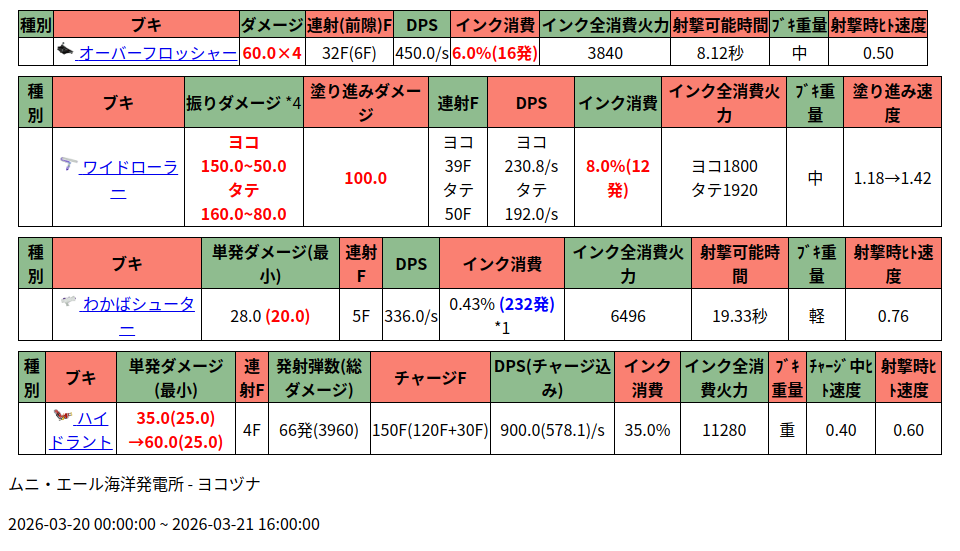
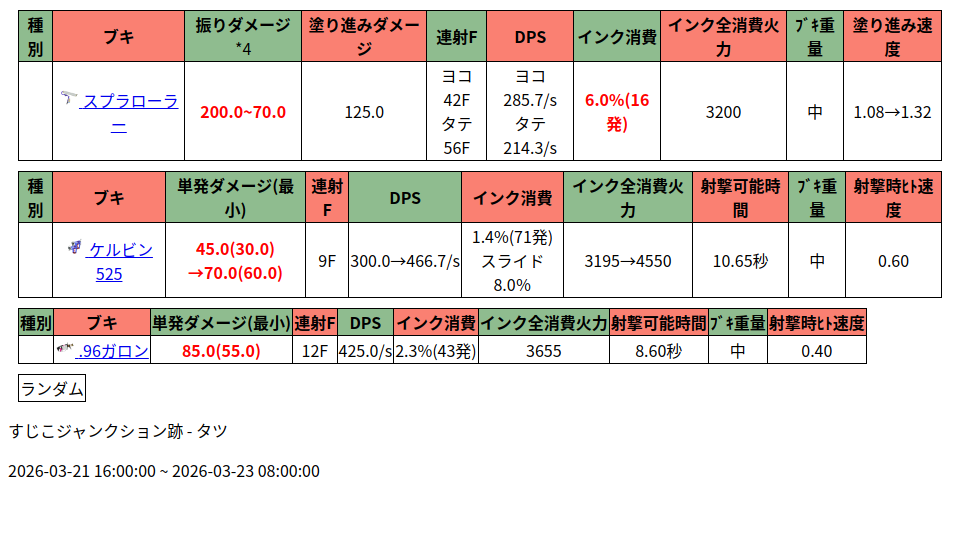
Automated changes by GitHub Actions

diff --git a/salmonRun.html b/salmonRun.html
@@ -1,1 +1,1 @@
-<head><meta charset="UTF-8"><style>table{border-collapse: collapse;border: 1px solid black;margin:10px;}td, th {border: 1px solid black;}</style></head><table><thead> <tr>  <td style="background-color:DarkSeaGreen; text-align:center;">   <strong>    種別   </strong>  </td>  <td style="background-color:Salmon; text-align:center;">   <strong>    ブキ   </strong>  </td>  <td style="background-color:DarkSeaGreen; text-align:center;">   <strong>    ダメージ   </strong>  </td>  <td style="background-color:Salmon; text-align:center;">   <strong>    連射(前隙)F   </strong>  </td>  <td style="background-color:DarkSeaGreen; text-align:center;">   <strong>    DPS   </strong>  </td>  <td style="background-color:Salmon; text-align:center;">   <strong>    インク消費   </strong>  </td>  <td style="background-color:DarkSeaGreen; text-align:center;">   <strong>    インク全消費火力   </strong>  </td>  <td style="background-color:Salmon; text-align:center;">   <strong>    射撃可能時間   </strong>  </td>  <td style="background-color:DarkSeaGreen; text-align:center;">   <strong>    ﾌﾞｷ重量   </strong>  </td>  <td style="background-color:Salmon; text-align:center;">   <strong>    射撃時ﾋﾄ速度   </strong>  </td> </tr></thead><tr><td></td> <td style="text-align:center;">  <a data-lightbox="imageset" href="https://cdn.wikiwiki.jp/to/w/splatoon3mix/icon/::attach/%E3%82%AA%E3%83%BC%E3%83%90%E3%83%BC%E3%83%95%E3%83%AD%E3%83%83%E3%82%B7%E3%83%A3%E3%83%BC.png?rev=afe5a9cc21242502cfc0347951e61fe4&amp;t=20220906103738" title="オーバーフロッシャー">   <img alt="オーバーフロッシャー" height="20" loading="lazy" src="https://cdn.wikiwiki.jp/to/w/splatoon3mix/icon/::ref/%E3%82%AA%E3%83%BC%E3%83%90%E3%83%BC%E3%83%95%E3%83%AD%E3%83%83%E3%82%B7%E3%83%A3%E3%83%BC.png?rev=afe5a9cc21242502cfc0347951e61fe4&amp;t=20220906103738" title="オーバーフロッシャー" width="20"/>  </a>  <a class="rel-wiki-page" href="/splatoon3mix/%E3%83%96%E3%82%AD/%E3%82%AA%E3%83%BC%E3%83%90%E3%83%BC%E3%83%95%E3%83%AD%E3%83%83%E3%82%B7%E3%83%A3%E3%83%BC" title="ブキ/オーバーフロッシャー">   オーバーフロッシャー  </a> </td> <td style="text-align:center;">  <span class="wikicolor" style="color:Red">   <strong>    60.0×4   </strong>  </span> </td> <td style="text-align:center;">  32F(6F) </td> <td style="text-align:center;">  450.0/s </td> <td style="text-align:center;">  <span class="wikicolor" style="color:Red">   <strong>    6.0%(16発)   </strong>  </span> </td> <td style="text-align:center;">  3840 </td> <td style="text-align:center;">  8.12秒 </td> <td style="text-align:center;">  中 </td> <td style="text-align:center;">  0.50 </td></tr></table><table><thead> <tr>  <td style="background-color:DarkSeaGreen; text-align:center;">   <strong>    種別   </strong>  </td>  <td style="background-color:Salmon; text-align:center;">   <strong>    ブキ   </strong>  </td>  <td style="background-color:DarkSeaGreen; text-align:center;">   <strong>    振りダメージ   </strong>   <a class="note_super tooltip" data-tooltip-content='&lt;p&gt;距離によってダメージが変動し、時間経過によって最大0.5倍の減衰がかかる。&lt;/p&gt;&lt;div style="text-align: right;"&gt;&lt;a href="#notefoot_4"&gt;脚注 *4 へ&lt;/a&gt;&lt;/div&gt;' id="notetext_4">    *4   </a>  </td>  <td style="background-color:Salmon; text-align:center;">   <strong>    塗り進みダメージ   </strong>  </td>  <td style="background-color:DarkSeaGreen; text-align:center;">   <strong>    連射F   </strong>  </td>  <td style="background-color:Salmon; text-align:center;">   <strong>    DPS   </strong>  </td>  <td style="background-color:DarkSeaGreen; text-align:center;">   <strong>    インク消費   </strong>  </td>  <td style="background-color:Salmon; text-align:center;">   <strong>    インク全消費火力   </strong>  </td>  <td style="background-color:DarkSeaGreen; text-align:center;">   <strong>    ﾌﾞｷ重量   </strong>  </td>  <td style="background-color:Salmon; text-align:center;">   <strong>    塗り進み速度   </strong>  </td> </tr></thead><tr><td></td> <td style="text-align:center;">  <a data-lightbox="imageset" href="https://cdn.wikiwiki.jp/to/w/splatoon3mix/icon/::attach/%E3%83%AF%E3%82%A4%E3%83%89%E3%83%AD%E3%83%BC%E3%83%A9%E3%83%BC.png?rev=92ad01bb0d912e69be0ebe69586fb8bf&amp;t=20221201093807" title="ワイドローラー">   <img alt="ワイドローラー" height="20" loading="lazy" src="https://cdn.wikiwiki.jp/to/w/splatoon3mix/icon/::ref/%E3%83%AF%E3%82%A4%E3%83%89%E3%83%AD%E3%83%BC%E3%83%A9%E3%83%BC.png?rev=92ad01bb0d912e69be0ebe69586fb8bf&amp;t=20221201093807" title="ワイドローラー" width="20"/>  </a>  <a class="rel-wiki-page" href="/splatoon3mix/%E3%83%96%E3%82%AD/%E3%83%AF%E3%82%A4%E3%83%89%E3%83%AD%E3%83%BC%E3%83%A9%E3%83%BC" title="ブキ/ワイドローラー">   ワイドローラー  </a> </td> <td style="text-align:center;">  <span class="wikicolor" style="color:Red">   <strong>    ヨコ150.0~50.0    <br class="spacer"/>    タテ160.0~80.0   </strong>  </span> </td> <td style="text-align:center;">  <span class="wikicolor" style="color:Red">   <strong>    100.0   </strong>  </span> </td> <td style="text-align:center;">  ヨコ39F  <br class="spacer"/>  タテ50F </td> <td style="text-align:center;">  ヨコ230.8/s  <br class="spacer"/>  タテ192.0/s </td> <td style="text-align:center;">  <span class="wikicolor" style="color:Red">   <strong>    8.0%(12発)   </strong>  </span> </td> <td style="text-align:center;">  ヨコ1800  <br class="spacer"/>  タテ1920 </td> <td style="text-align:center;">  中 </td> <td style="text-align:center;">  1.18→1.42 </td></tr></table><table><thead> <tr>  <td style="background-color:DarkSeaGreen; text-align:center;">   <strong>    種別   </strong>  </td>  <td style="background-color:Salmon; text-align:center;">   <strong>    ブキ   </strong>  </td>  <td style="background-color:DarkSeaGreen; text-align:center;">   <strong>    単発ダメージ(最小)   </strong>  </td>  <td style="background-color:Salmon; text-align:center;">   <strong>    連射F   </strong>  </td>  <td style="background-color:DarkSeaGreen; text-align:center;">   <strong>    DPS   </strong>  </td>  <td style="background-color:Salmon; text-align:center;">   <strong>    インク消費   </strong>  </td>  <td style="background-color:DarkSeaGreen; text-align:center;">   <strong>    インク全消費火力   </strong>  </td>  <td style="background-color:Salmon; text-align:center;">   <strong>    射撃可能時間   </strong>  </td>  <td style="background-color:DarkSeaGreen; text-align:center;">   <strong>    ﾌﾞｷ重量   </strong>  </td>  <td style="background-color:Salmon; text-align:center;">   <strong>    射撃時ﾋﾄ速度   </strong>  </td> </tr></thead><tr><td></td> <td style="text-align:center;">  <a data-lightbox="imageset" href="https://cdn.wikiwiki.jp/to/w/splatoon3mix/icon/::attach/%E3%82%8F%E3%81%8B%E3%81%B0%E3%82%B7%E3%83%A5%E3%83%BC%E3%82%BF%E3%83%BC.png?rev=71c835cfbea476bbea062d8b083a62c6&amp;t=20220905214729" title="わかばシューター">   <img alt="わかばシューター" height="20" loading="lazy" src="https://cdn.wikiwiki.jp/to/w/splatoon3mix/icon/::ref/%E3%82%8F%E3%81%8B%E3%81%B0%E3%82%B7%E3%83%A5%E3%83%BC%E3%82%BF%E3%83%BC.png?rev=71c835cfbea476bbea062d8b083a62c6&amp;t=20220905214729" title="わかばシューター" width="20"/>  </a>  <a class="rel-wiki-page" href="/splatoon3mix/%E3%83%96%E3%82%AD/%E3%82%8F%E3%81%8B%E3%81%B0%E3%82%B7%E3%83%A5%E3%83%BC%E3%82%BF%E3%83%BC" title="ブキ/わかばシューター">   わかばシューター  </a> </td> <td style="text-align:center;">  28.0  <span class="wikicolor" style="color:Red">   <strong>    (20.0)   </strong>  </span> </td> <td style="text-align:center;">  5F </td> <td style="text-align:center;">  336.0/s </td> <td style="text-align:center;">  0.43%  <span class="wikicolor" style="color:Blue">   <strong>    (232発)   </strong>  </span>  <a class="note_super tooltip" data-tooltip-content='&lt;p&gt;&lt;a href="/splatoon3mix/%E3%82%B5%E3%83%BC%E3%83%A2%E3%83%B3%E3%83%A9%E3%83%B3" title="サーモンラン" class="rel-wiki-page"&gt;サーモンラン&lt;/a&gt;においてはインクタンク10%増量の効果が適用されないため、実質的に下方修正されている&lt;/p&gt;&lt;div style="text-align: right;"&gt;&lt;a href="#notefoot_1"&gt;脚注 *1 へ&lt;/a&gt;&lt;/div&gt;' id="notetext_1">   *1  </a> </td> <td style="text-align:center;">  6496 </td> <td style="text-align:center;">  19.33秒 </td> <td style="text-align:center;">  軽 </td> <td style="text-align:center;">  0.76 </td></tr></table><table><thead> <tr>  <td style="background-color:DarkSeaGreen; text-align:center;">   <strong>    種別   </strong>  </td>  <td style="background-color:Salmon; text-align:center;">   <strong>    ブキ   </strong>  </td>  <td style="background-color:DarkSeaGreen; text-align:center;">   <strong>    単発ダメージ(最小)   </strong>  </td>  <td style="background-color:Salmon; text-align:center;">   <strong>    連射F   </strong>  </td>  <td style="background-color:DarkSeaGreen; text-align:center;">   <strong>    発射弾数(総ダメージ)   </strong>  </td>  <td style="background-color:Salmon; text-align:center;">   <strong>    チャージF   </strong>  </td>  <td style="background-color:DarkSeaGreen; text-align:center;">   <strong>    DPS(チャージ込み)   </strong>  </td>  <td style="background-color:Salmon; text-align:center;">   <strong>    インク消費   </strong>  </td>  <td style="background-color:DarkSeaGreen; text-align:center;">   <strong>    インク全消費火力   </strong>  </td>  <td style="background-color:Salmon; text-align:center;">   <strong>    ﾌﾞｷ重量   </strong>  </td>  <td style="background-color:DarkSeaGreen; text-align:center;">   <strong>    ﾁｬｰｼﾞ中ﾋﾄ速度   </strong>  </td>  <td style="background-color:Salmon; text-align:center;">   <strong>    射撃時ﾋﾄ速度   </strong>  </td> </tr></thead><tr><td></td> <td style="text-align:center;">  <a data-lightbox="imageset" href="https://cdn.wikiwiki.jp/to/w/splatoon3mix/icon/::attach/%E3%83%8F%E3%82%A4%E3%83%89%E3%83%A9%E3%83%B3%E3%83%88.png?rev=ab6a736dc2e4c56fcda0cb2ec6bd1d5e&amp;t=20220906103846" title="ハイドラント">   <img alt="ハイドラント" height="20" loading="lazy" src="https://cdn.wikiwiki.jp/to/w/splatoon3mix/icon/::ref/%E3%83%8F%E3%82%A4%E3%83%89%E3%83%A9%E3%83%B3%E3%83%88.png?rev=ab6a736dc2e4c56fcda0cb2ec6bd1d5e&amp;t=20220906103846" title="ハイドラント" width="20"/>  </a>  <a class="rel-wiki-page" href="/splatoon3mix/%E3%83%96%E3%82%AD/%E3%83%8F%E3%82%A4%E3%83%89%E3%83%A9%E3%83%B3%E3%83%88" title="ブキ/ハイドラント">   ハイドラント  </a> </td> <td style="text-align:center;">  <span class="wikicolor" style="color:Red">   <strong>    35.0(25.0)    <br class="spacer"/>    →60.0(25.0)   </strong>  </span> </td> <td style="text-align:center;">  4F </td> <td style="text-align:center;">  66発(3960) </td> <td style="text-align:center;">  150F(120F+30F) </td> <td style="text-align:center;">  900.0(578.1)/s </td> <td style="text-align:center;">  35.0% </td> <td style="text-align:center;">  11280 </td> <td style="text-align:center;">  重 </td> <td style="text-align:center;">  0.40 </td> <td style="text-align:center;">  0.60 </td></tr></table><p>ムニ・エール海洋発電所 - ヨコヅナ</p><p>2026-03-20 00:00:00 ~ 2026-03-21 16:00:00</p>
+<head><meta charset="UTF-8"><style>table{border-collapse: collapse;border: 1px solid black;margin:10px;}td, th {border: 1px solid black;}</style></head><table><thead> <tr>  <td style="background-color:DarkSeaGreen; text-align:center;">   <strong>    種別   </strong>  </td>  <td style="background-color:Salmon; text-align:center;">   <strong>    ブキ   </strong>  </td>  <td style="background-color:DarkSeaGreen; text-align:center;">   <strong>    振りダメージ   </strong>   <a class="note_super tooltip" data-tooltip-content='&lt;p&gt;距離によってダメージが変動し、時間経過によって最大0.5倍の減衰がかかる。&lt;/p&gt;&lt;div style="text-align: right;"&gt;&lt;a href="#notefoot_4"&gt;脚注 *4 へ&lt;/a&gt;&lt;/div&gt;' id="notetext_4">    *4   </a>  </td>  <td style="background-color:Salmon; text-align:center;">   <strong>    塗り進みダメージ   </strong>  </td>  <td style="background-color:DarkSeaGreen; text-align:center;">   <strong>    連射F   </strong>  </td>  <td style="background-color:Salmon; text-align:center;">   <strong>    DPS   </strong>  </td>  <td style="background-color:DarkSeaGreen; text-align:center;">   <strong>    インク消費   </strong>  </td>  <td style="background-color:Salmon; text-align:center;">   <strong>    インク全消費火力   </strong>  </td>  <td style="background-color:DarkSeaGreen; text-align:center;">   <strong>    ﾌﾞｷ重量   </strong>  </td>  <td style="background-color:Salmon; text-align:center;">   <strong>    塗り進み速度   </strong>  </td> </tr></thead><tr><td></td> <td style="text-align:center;">  <a data-lightbox="imageset" href="https://cdn.wikiwiki.jp/to/w/splatoon3mix/icon/::attach/%E3%82%B9%E3%83%97%E3%83%A9%E3%83%AD%E3%83%BC%E3%83%A9%E3%83%BC.png?rev=35e16e1b1929197aacb3b358faca81da&amp;t=20220905220143" title="スプラローラー">   <img alt="スプラローラー" height="20" loading="lazy" src="https://cdn.wikiwiki.jp/to/w/splatoon3mix/icon/::ref/%E3%82%B9%E3%83%97%E3%83%A9%E3%83%AD%E3%83%BC%E3%83%A9%E3%83%BC.png?rev=35e16e1b1929197aacb3b358faca81da&amp;t=20220905220143" title="スプラローラー" width="20"/>  </a>  <a class="rel-wiki-page" href="/splatoon3mix/%E3%83%96%E3%82%AD/%E3%82%B9%E3%83%97%E3%83%A9%E3%83%AD%E3%83%BC%E3%83%A9%E3%83%BC" title="ブキ/スプラローラー">   スプラローラー  </a> </td> <td style="text-align:center;">  <span class="wikicolor" style="color:Red">   <strong>    200.0~70.0   </strong>  </span> </td> <td style="text-align:center;">  125.0 </td> <td style="text-align:center;">  ヨコ42F  <br class="spacer"/>  タテ56F </td> <td style="text-align:center;">  ヨコ285.7/s  <br class="spacer"/>  タテ214.3/s </td> <td style="text-align:center;">  <span class="wikicolor" style="color:Red">   <strong>    6.0%(16発)   </strong>  </span> </td> <td style="text-align:center;">  3200 </td> <td style="text-align:center;">  中 </td> <td style="text-align:center;">  1.08→1.32 </td></tr></table><table><thead> <tr>  <td style="background-color:DarkSeaGreen; text-align:center;">   <strong>    種別   </strong>  </td>  <td style="background-color:Salmon; text-align:center;">   <strong>    ブキ   </strong>  </td>  <td style="background-color:DarkSeaGreen; text-align:center;">   <strong>    単発ダメージ(最小)   </strong>  </td>  <td style="background-color:Salmon; text-align:center;">   <strong>    連射F   </strong>  </td>  <td style="background-color:DarkSeaGreen; text-align:center;">   <strong>    DPS   </strong>  </td>  <td style="background-color:Salmon; text-align:center;">   <strong>    インク消費   </strong>  </td>  <td style="background-color:DarkSeaGreen; text-align:center;">   <strong>    インク全消費火力   </strong>  </td>  <td style="background-color:Salmon; text-align:center;">   <strong>    射撃可能時間   </strong>  </td>  <td style="background-color:DarkSeaGreen; text-align:center;">   <strong>    ﾌﾞｷ重量   </strong>  </td>  <td style="background-color:Salmon; text-align:center;">   <strong>    射撃時ﾋﾄ速度   </strong>  </td> </tr></thead><tr><td></td> <td style="text-align:center;">  <a data-lightbox="imageset" href="https://cdn.wikiwiki.jp/to/w/splatoon3mix/icon/::attach/%E3%82%B1%E3%83%AB%E3%83%93%E3%83%B3525.png?rev=d3ba307e5af6a60aafe3cbdf5668c8a7&amp;t=20220906103800" title="ケルビン525">   <img alt="ケルビン525" height="20" loading="lazy" src="https://cdn.wikiwiki.jp/to/w/splatoon3mix/icon/::ref/%E3%82%B1%E3%83%AB%E3%83%93%E3%83%B3525.png?rev=d3ba307e5af6a60aafe3cbdf5668c8a7&amp;t=20220906103800" title="ケルビン525" width="20"/>  </a>  <a class="rel-wiki-page" href="/splatoon3mix/%E3%83%96%E3%82%AD/%E3%82%B1%E3%83%AB%E3%83%93%E3%83%B3525" title="ブキ/ケルビン525">   ケルビン525  </a> </td> <td style="text-align:center;">  <span class="wikicolor" style="color:Red">   <strong>    45.0(30.0)    <br class="spacer"/>    →70.0(60.0)   </strong>  </span> </td> <td style="text-align:center;">  9F </td> <td style="text-align:center;">  300.0→466.7/s </td> <td style="text-align:center;">  1.4%(71発)  <br class="spacer"/>  スライド8.0％ </td> <td style="text-align:center;">  3195→4550 </td> <td style="text-align:center;">  10.65秒 </td> <td style="text-align:center;">  中 </td> <td style="text-align:center;">  0.60 </td></tr></table><table><thead> <tr>  <td style="background-color:DarkSeaGreen; text-align:center;">   <strong>    種別   </strong>  </td>  <td style="background-color:Salmon; text-align:center;">   <strong>    ブキ   </strong>  </td>  <td style="background-color:DarkSeaGreen; text-align:center;">   <strong>    単発ダメージ(最小)   </strong>  </td>  <td style="background-color:Salmon; text-align:center;">   <strong>    連射F   </strong>  </td>  <td style="background-color:DarkSeaGreen; text-align:center;">   <strong>    DPS   </strong>  </td>  <td style="background-color:Salmon; text-align:center;">   <strong>    インク消費   </strong>  </td>  <td style="background-color:DarkSeaGreen; text-align:center;">   <strong>    インク全消費火力   </strong>  </td>  <td style="background-color:Salmon; text-align:center;">   <strong>    射撃可能時間   </strong>  </td>  <td style="background-color:DarkSeaGreen; text-align:center;">   <strong>    ﾌﾞｷ重量   </strong>  </td>  <td style="background-color:Salmon; text-align:center;">   <strong>    射撃時ﾋﾄ速度   </strong>  </td> </tr></thead><tr><td></td> <td style="text-align:center;">  <a data-lightbox="imageset" href="https://cdn.wikiwiki.jp/to/w/splatoon3mix/icon/::attach/.96%E3%82%AC%E3%83%AD%E3%83%B3.png?rev=064da5391cf8591ffe192d7e74f644c5&amp;t=20220905214558" title=".96ガロン">   <img alt=".96ガロン" height="20" loading="lazy" src="https://cdn.wikiwiki.jp/to/w/splatoon3mix/icon/::ref/.96%E3%82%AC%E3%83%AD%E3%83%B3.png?rev=064da5391cf8591ffe192d7e74f644c5&amp;t=20220905214558" title=".96ガロン" width="20"/>  </a>  <a class="rel-wiki-page" href="/splatoon3mix/%E3%83%96%E3%82%AD/.96%E3%82%AC%E3%83%AD%E3%83%B3" title="ブキ/.96ガロン">   .96ガロン  </a> </td> <td style="text-align:center;">  <span class="wikicolor" style="color:Red">   <strong>    85.0(55.0)   </strong>  </span> </td> <td style="text-align:center;">  12F </td> <td style="text-align:center;">  425.0/s </td> <td style="text-align:center;">  2.3%(43発) </td> <td style="text-align:center;">  3655 </td> <td style="text-align:center;">  8.60秒 </td> <td style="text-align:center;">  中 </td> <td style="text-align:center;">  0.40 </td></tr></table><table><td>ランダム</td></table><p>すじこジャンクション跡 - タツ</p><p>2026-03-21 16:00:00 ~ 2026-03-23 08:00:00</p>
